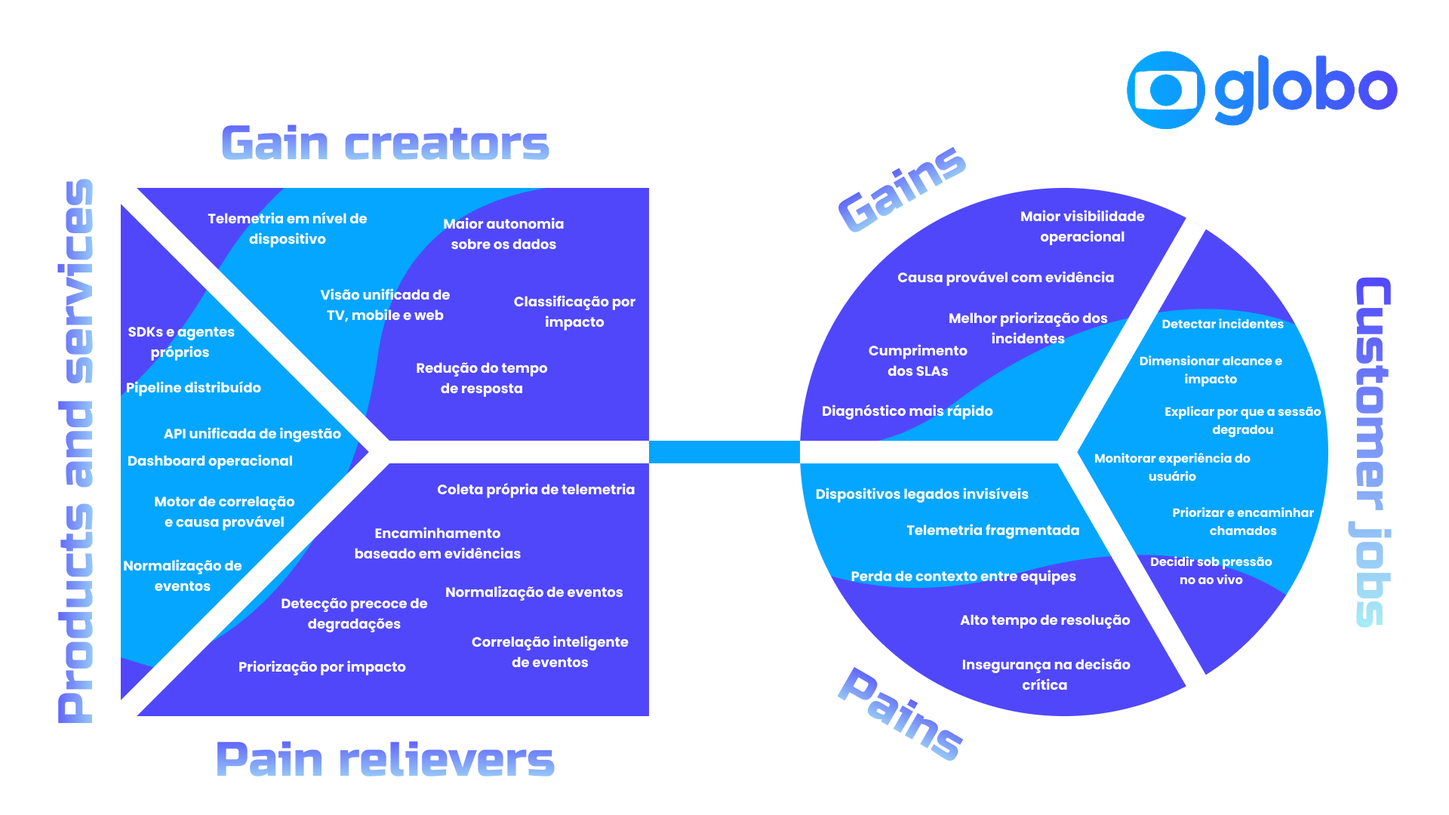
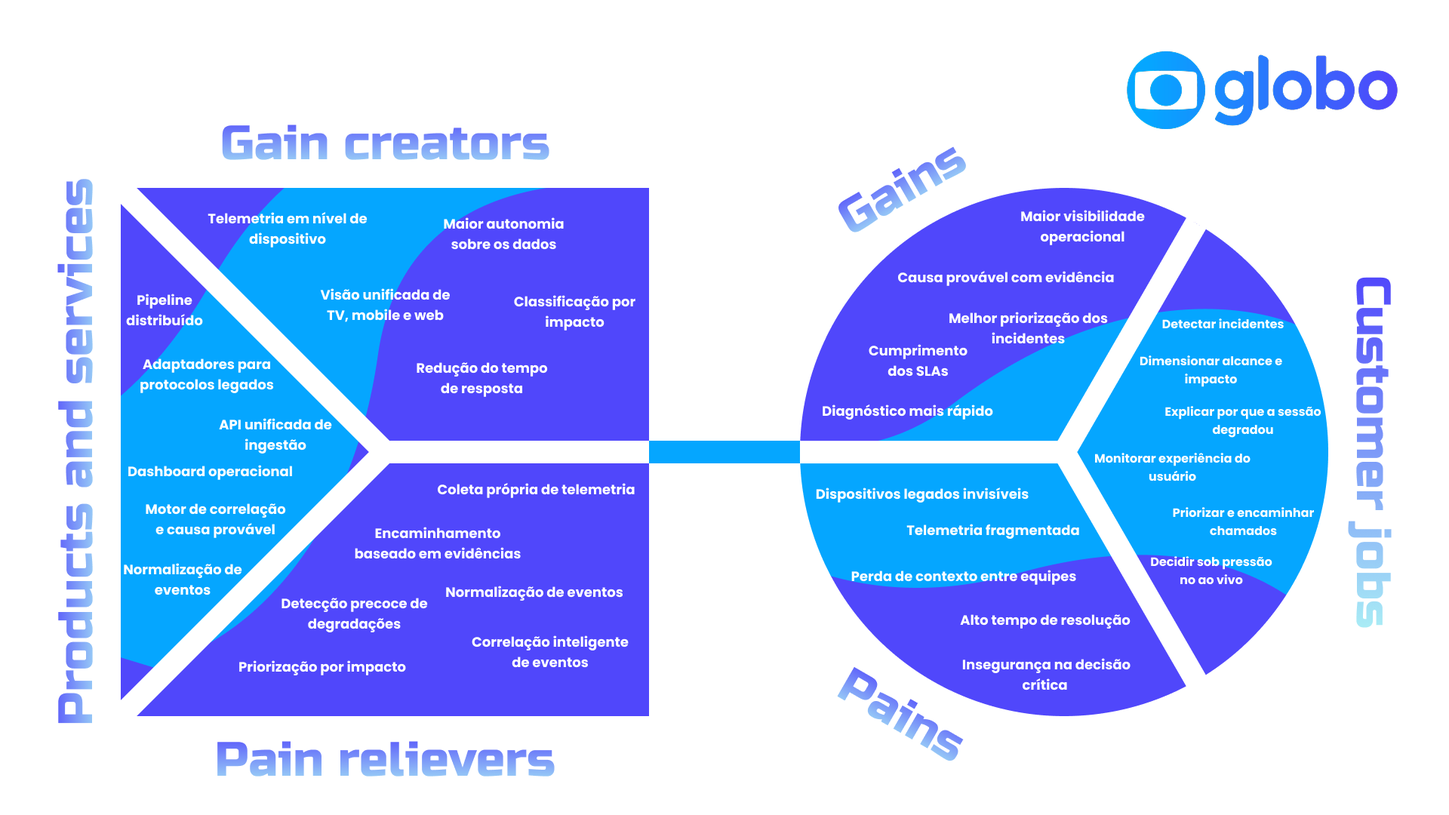
docs: refatoração de revisão com novo contexto

Changed region(s): [[0.0938, 0.5194, 0.25, 0.7333], [0.0938, 0.3667, 0.1875, 0.4889]]

diff --git a/artefatos/entendimento_negocio.md b/artefatos/entendimento_negocio.md
@@ -12,6 +12,8 @@
 
 &emsp; **Solução proposta pelo grupo.** Sistema distribuído proprietário de telemetria, com API única de ingestão que aceita protocolos modernos e legados, normalização dos eventos sob vocabulário comum (`request`, `vitals`, `screen_view`, `video_view`, `session`, `error`), pipeline de alta escala sem perdas e camada agêntica de correlação, que devolve uma linha do tempo única do incidente e uma hipótese de causa provável ranqueada, com o recorte afetado explícito.
 
+&emsp; **Escopo avaliado.** A matriz compara a solução-alvo, e não o recorte entregue no módulo. O MVP implementa o caminho de ingestão, processamento assíncrono, armazenamento e consulta, consumindo eventos já mapeados para o vocabulário comum definido pelo projeto (`signal_point`). Os adaptadores por protocolo de origem e a camada de correlação e inferência estão previstos nas fases seguintes, conforme 4.3. Os atributos 1, 2 e 5 descrevem, portanto, capacidade projetada, e sua verificação depende dessas fases.
+
 &emsp; A matriz avalia as abordagens de solução, e não o Globoplay. Características do produto e da audiência entram como justificativa do valor de cada atributo, não como objeto de avaliação.
 
 ### 1.2. Escala e critérios de atribuição das notas
@@ -31,7 +33,7 @@
 | Atributo de valor para o Grupo Globo                       | Prática atual (silos + triagem humana) | Suíte de observabilidade de mercado | Solução proposta pelo grupo | Justificativa das notas                                                                                                                                                                                                                                                                                                                                                                             |
 | ---------------------------------------------------------- | -------------------------------------: | ----------------------------------: | --------------------------: | --------------------------------------------------------------------------------------------------------------------------------------------------------------------------------------------------------------------------------------------------------------------------------------------------------------------------------------------------------------------------------------------------- |
 | 1. Tempo até a hipótese de causa provável                  |                                      1 |                                   3 |                           5 | Hoje o tempo de resolução é a soma das filas: gasta-se mais para descobrir quem conserta do que para consertar. A suíte comercial encurta o caminho ao reunir sinais em um painel, mas ainda entrega gráficos que alguém precisa interpretar. Só a solução proposta tem como produto final uma hipótese ranqueada, e não um conjunto de séries temporais.                                           |
-| 2. Correlação ponta a ponta em uma linha do tempo única    |                                      1 |                                   3 |                           5 | A experiência do assinante é ponta a ponta, mas a observabilidade não é: nenhum painel atual acompanha a jornada inteira do play. A suíte comercial resolve isso quando todas as fontes são de fato integradas, o que raramente se completa numa cadeia com mais de treze fontes heterogêneas. A solução proposta faz o agrupamento por filtros, que proporciona o olhar de uma linha do tempo única. |
+| 2. Correlação ponta a ponta em uma linha do tempo única    |                                      1 |                                   3 |                           5 | A experiência do assinante é ponta a ponta, mas a observabilidade não é: nenhum painel atual acompanha a jornada inteira do play. A suíte comercial resolve isso quando todas as fontes são de fato integradas, o que raramente se completa numa cadeia com oito fontes heterogêneas. A solução proposta faz o agrupamento por filtros, que proporciona o olhar de uma linha do tempo única. |
 | 3. Detecção de degradação que não gera erro                |                                      2 |                                   3 |                           5 | Buffer alto e tempo de início ruim não produzem taxa de erro, e o painel tradicional não acende. Ferramentas de mercado detectam anomalia, mas sobre métricas agregadas, em que a degradação de um recorte se dilui. A solução proposta parte de eventos de QoE coletados no cliente, em que o sintoma percebido pelo assinante é o próprio dado primário.                                          |
 | 4. Granularidade nos recortes de investigação              |                                      2 |                                   2 |                           5 | Uma falha que atinge meio por cento das sessões pode ser a totalidade das sessões de um modelo de TV numa região. A prática atual dilui isso na média nacional. A suíte comercial é penalizada pelo próprio modelo de cobrança: cada dimensão adicional vira custo e empurra o time de volta ao agregado. Na solução proposta, a granularidade é decidida pela necessidade analítica.               |
 | 5. Cobertura da base real de dispositivos e protocolos     |                                      2 |                                   2 |                           5 | Sete plataformas e centenas de modelos convivem no parque, e parte relevante deles não suporta os padrões modernos de coleta que as plataformas de mercado assumem. Nem a prática atual nem a suíte resolvem isso, porque a limitação está na borda e não no backend. A API única multiprotocolo ataca a causa do ponto cego.                                                                       |
@@ -61,16 +63,16 @@
 
 ### 1.5. Trade-offs explícitos da solução proposta
 
-&emsp; Os principais trade-offs assumidos são:
+&emsp; Os trade-offs abaixo são tratados como riscos de projeto na seção 2, com probabilidade, impacto e plano de ação; aqui interessam apenas como contrapartida da escolha de valor. Os principais são:
 
 - Uma causa provável errada durante um evento ao vivo é pior do que hipótese nenhuma, porque direciona o esforço da equipe para o componente errado no pior momento. A saída precisa vir ranqueada e com evidência auditável, e sua qualidade depende de um histórico de incidentes rotulados que talvez ainda não exista em volume suficiente.
 - A camada de inferência só gera valor sobre eventos confiáveis. Investir na inteligência antes de estabilizar ingestão e olhar para os eventos corretos produziria diagnóstico automático sobre dado incompleto, resultado pior do que a triagem manual de hoje.
-- Ao internalizar a telemetria, o Globoplay passa a depender de um sistema que precisa estar disponível exatamente quando a operação está sob estresse. A indisponibilidade da plataforma de monitoração durante uma transmissão de alta audiência é um modo de falha que não existia enquanto o serviço era terceirizado.
-- Armazenar eventos por dispositivo, versão, UF e operadora em alta escala continua caro, e a política de retenção e amostragem terá de ser decisão explícita de projeto, sob o risco de reproduzir internamente o mesmo incentivo a observar menos.
+- Ao internalizar a telemetria, o Globoplay passa a depender de um sistema que precisa estar disponível exatamente quando a operação está sob estresse. A indisponibilidade da plataforma de monitoração durante uma transmissão de alta audiência é um modo de falha que não existia enquanto o serviço era terceirizado (R11 e R16 da seção 2).
+- Armazenar eventos por dispositivo, versão, UF e operadora em alta escala continua caro, e a política de retenção e amostragem terá de ser decisão explícita de projeto, sob o risco de reproduzir internamente o mesmo incentivo a observar menos (R13 da seção 2).
 
 ### 1.6. Evidências que reforçam a comparação
 
-&emsp; **Contexto do produto.** O Globoplay reúne cerca de 30 milhões de usuários ativos mensais (EXAME, 2026), com picos que chegam a 4,1 milhões de sessões em um único evento ao vivo. O produto é entregue em sete plataformas, sobre centenas de modelos de dispositivo, distribuídos por 27 unidades federativas e dezenas de provedores de acesso. A cadeia de entrega envolve mais de treze fontes de dados, produzidas por áreas diferentes, com formatos e janelas de agregação diferentes, e todas precisam ser lidas em conjunto para explicar um único play que deu errado. É esse espaço de busca que torna a varredura manual inviável em plantão.
+&emsp; **Contexto do produto.** O Globoplay reúne cerca de 30 milhões de usuários ativos mensais (EXAME, 2026), com picos que chegam a 4,1 milhões de sessões em um único evento ao vivo. O produto é entregue em sete plataformas, sobre centenas de modelos de dispositivo, distribuídos por 27 unidades federativas e dezenas de provedores de acesso. A cadeia de entrega envolve ao menos oito fontes de dados, produzidas por áreas diferentes, com formatos e janelas de agregação diferentes, e todas precisam ser lidas em conjunto para explicar um único play que deu errado. É esse espaço de busca que torna a varredura manual inviável em plantão.
 
 &emsp; **Impacto econômico da degradação silenciosa.** O estudo de Krishnan e Sitaraman (2012), conduzido sobre 23 milhões de visualizações na rede da Akamai e apresentado no Internet Measurement Conference, mostrou que o abandono começa quando o vídeo demora mais de cerca de 2 segundos para iniciar, com aumento aproximado de 5,8 pontos percentuais na taxa de abandono a cada segundo adicional. Travamentos equivalentes a 1% da duração reduzem em cerca de 5% o tempo assistido, e quem sofre falha de reprodução tem probabilidade cerca de 2,3% menor de voltar na mesma semana. O resultado sustenta o atributo 3: a degradação que não gera erro é justamente a que destrói engajamento.
 
@@ -220,14 +222,14 @@
 
 | # | Produto ou serviço | Atende a |
 |---|---|---|
-| P1 | SDKs e agentes próprios | J1, J4 |
-| P2 | API unificada de ingestão | J1, J4 |
-| P3 | Normalização de eventos | J3 |
-| P4 | Pipeline distribuído | J1, J2 |
+| P1 | Vocabulário comum de eventos (`signal_point`) | J1, J3 |
+| P2 | API única de ingestão | J1, J4 |
+| P3 | Fila de mensagens e worker de processamento | J1, J2 |
+| P4 | Armazenamento com recorte por dimensão | J2, J3 |
 | P5 | Motor de correlação e causa provável | J3, J5, J6 |
-| P6 | Dashboard operacional | J2, J5 |
+| P6 | Dashboard e API de consulta | J2, J4, J5 |
 
-&emsp; P5 é o componente que diferencia a proposta das alternativas comparadas em 1.3. Sem ele, os demais produtos entregam dados, e não inferência, e a solução se aproxima da suíte de mercado avaliada na matriz. Seu custo de construção precisa estar refletido no investimento estimado em 4.3.
+&emsp; P5 é o componente que diferencia a proposta das alternativas comparadas em 1.3. Sem ele, os demais produtos entregam dados, e não inferência, e a solução se aproxima da suíte de mercado avaliada na matriz. Seu custo de construção está estimado na Fase 5 do investimento inicial, em 4.3.
 
 #### 3.1.3. Encaixe entre dores e aliviadores
 
@@ -253,7 +255,7 @@
 | G4 | Melhor priorização dos incidentes | Média | Classificação por impacto |
 | G5 | Cumprimento dos SLAs | Média | Redução do tempo de resposta |
 
-&emsp; O encaixe demonstrado acima delimita a proposta. A solução é baseada em coleta própria: os eventos são capturados nos dispositivos por SDKs e agentes, enviados à infraestrutura na AWS, normalizados, armazenados, correlacionados e apresentados em dashboard. Dentro do escopo do MVP e conforme o rollout, ela substitui parte das funcionalidades hoje desempenhadas por ferramentas de observabilidade de mercado, e não a totalidade delas. Essa proporção é tratada como premissa B3 na análise financeira, em 4.2. O valor central permanece a ampliação da visibilidade necessária para investigar incidentes, reduzir o tempo perdido entre filas e equipes, apoiar o cumprimento dos SLAs e diminuir o impacto das falhas percebidas pelos assinantes do Globoplay.
+&emsp; O encaixe demonstrado acima delimita a proposta. A solução é baseada em ingestão própria: os eventos das fontes de telemetria, mapeados para o vocabulário comum definido pelo projeto, são recebidos por uma API única na infraestrutura da AWS, processados de forma assíncrona, armazenados, correlacionados e apresentados em dashboard. Dentro do escopo do MVP e conforme o rollout, ela substitui parte das funcionalidades hoje desempenhadas por ferramentas de observabilidade de mercado, e não a totalidade delas. Essa proporção é tratada como premissa B3 na análise financeira, em 4.2. O valor central permanece a ampliação da visibilidade necessária para investigar incidentes, reduzir o tempo perdido entre filas e equipes, apoiar o cumprimento dos SLAs e diminuir o impacto das falhas percebidas pelos assinantes do Globoplay.
 
 ## 4. Análise Financeira do Projeto
 
@@ -273,7 +275,7 @@
 
 #### Contexto financeiro da organização
 
-&emsp; O Globoplay alcançou breakeven e lucro em 2025, pela primeira vez em 10 anos de operação, com cerca de 30 milhões de usuários ativos mensais (EXAME, 2026). O Grupo Globo fechou o ano com receita líquida consolidada de R$ 16,87 bi e lucro líquido de R$ 1,45 bi (TELETIME, 2026; ISTOÉ DINHEIRO, 2026).
+&emsp; O Globoplay alcançou breakeven e lucro em 2025, pela primeira vez em 10 anos de operação, com cerca de 30 milhões de usuários ativos mensais (EXAME, 2026). O Grupo Globo fechou o ano com faturamento bruto de R$ 18,2 bi, receita líquida consolidada de R$ 16,87 bi e lucro líquido de R$ 1,45 bi (ISTOÉ DINHEIRO, 2026; TELETIME, 2026).
 
 &emsp; O dado operacionalmente relevante para esta análise é a escala de usuários (A1), que determina o volume de telemetria e, por consequência, o custo de infraestrutura calculado em 4.4. Os indicadores consolidados do grupo servem apenas para dimensionar a ordem de grandeza do investimento frente à capacidade financeira do parceiro.
 
@@ -292,28 +294,28 @@
 | B1 | Contrato enterprise de observabilidade para operação de porte similar | US$ 800 mil – 2 mi/ano | Baixa | VENDORBENCHMARK (2026). A faixa descreve a trajetória de custo de organizações que não controlaram consumo, não um benchmark de operação comparável — ver limitação 1 |
 | B2 | Câmbio USD/BRL | R$ 5,08 | Média | INVESTING.COM (2026), 3 ago. 2026 |
 | B3 | Escopo da ferramenta de mercado substituível pelo MVP no 1º ano | 30–70% (cenários) | Baixa | Estimativa da equipe |
-| B4 | Taxa de captura (rollout na base de dispositivos) no 1º ano | 20–60% (cenários) | Baixa | Estimativa da equipe |
+| B4 | Taxa de captura (migração das aplicações e fontes para a API) no 1º ano | 20–60% (cenários) | Baixa | Estimativa da equipe |
 
-#### D. Custos de implementação
+#### C. Custos de implementação
 
 | # | Premissa | Valor | Confiança | Fonte |
 |---|---|---|---|---|
-| D1 | Equipe do projeto (custo de mercado) | 5 devs (2 sênior + 3 pleno) | Baixa | Equipe típica de projeto Inteli |
-| D2 | Duração do módulo acadêmico (MVP) | 10 semanas | Alta | Cronograma do módulo |
-| D3 | Salário — Dev Back-End Sênior (SP) | R$ 12.250–20.600/mês | Alta | ROBERT HALF (2026) |
-| D4 | Salário — Dev Full-Stack Pleno (SP) | R$ 9.550–15.900/mês | Alta | ROBERT HALF (2026) |
-| D5 | Nuvem — ambiente de desenvolvimento e teste | ~R$ 3.000/mês | Baixa | Estimativa não detalhada por serviço |
+| C1 | Equipe do projeto (custo de mercado) | 5 devs (2 sênior + 3 pleno) | Baixa | Equipe típica de projeto Inteli |
+| C2 | Duração do módulo acadêmico (MVP) | 10 semanas | Alta | Cronograma do módulo |
+| C3 | Salário — Dev Back-End Sênior (SP) | R$ 12.250–20.600/mês | Alta | ROBERT HALF (2026) |
+| C4 | Salário — Dev Full-Stack Pleno (SP) | R$ 9.550–15.900/mês | Alta | ROBERT HALF (2026) |
+| C5 | Nuvem — ambiente de desenvolvimento e teste | ~R$ 3.000/mês | Baixa | Estimativa não detalhada por serviço |
 
-#### D'. Premissas complementares derivadas pela equipe
+#### C'. Premissas complementares derivadas pela equipe
 
-&emsp; D1 a D5 não cobrem todos os itens de uma implantação em produção. As quatro premissas abaixo foram acrescentadas pelo grupo.
+&emsp; C1 a C5 não cobrem todos os itens de uma implantação em produção. As quatro premissas abaixo foram acrescentadas pelo grupo.
 
 | # | Premissa | Valor | Confiança | Derivação |
 |---|---|---|---|---|
-| D6 | Encargos sobre salário (CLT) | +35% sobre o bruto | Média | Prática de mercado |
-| D7 | Custo mensal carregado — sênior / pleno | R$ 24.000 / R$ 17.500 | Média | Médio-superior de D3 e D4 + D6 |
-| D8 | Prazo até produção estável | 6 meses | Baixa | D2 (10 semanas) + ~3,5 meses de hardening, integração e governança |
-| D9 | Volume de eventos em rollout total | ~3,6 bi eventos/mês | Baixa | A1 (30 mi) × ~8 sessões/mês × ~15 eventos/sessão |
+| C6 | Encargos sobre salário (CLT) | +35% sobre o bruto | Média | Prática de mercado |
+| C7 | Custo mensal carregado — sênior / pleno | R$ 24.000 / R$ 17.500 | Média | Médio-superior de C3 e C4 + C6 |
+| C8 | Prazo até produção estável | 6 meses | Baixa | C2 (10 semanas) + ~3,5 meses de hardening, integração e governança |
+| C9 | Volume de eventos em rollout total | ~3,6 bi eventos/mês | Baixa | A1 (30 mi) × ~8 sessões/mês × ~15 eventos/sessão |
 
 &emsp; **Validação futura.** As premissas de menor confiança tornam-se verificáveis já no primeiro trimestre de operação, a partir de métricas que a própria plataforma coleta: custo por evento, cobertura de dispositivos e volume de eventos processados. Este modelo deve ser recalculado quando esses dados existirem.
 
@@ -321,26 +323,28 @@
 
 ### 4.3. Investimento inicial
 
-&emsp; Estimativa do custo que o Globoplay incorreria para levar a solução a produção, não do custo do projeto acadêmico. A Fase 1 corresponde ao escopo do módulo (D2); as Fases 2 a 4 cobrem o que separa o MVP de um sistema em produção sob carga real.
+&emsp; Estimativa do custo que o Globoplay incorreria para levar a solução a produção, não do custo do projeto acadêmico. A Fase 1 corresponde ao escopo do módulo (C2); as Fases 2 a 5 cobrem o que separa o MVP de um sistema em produção sob carga real.
 
 | Fase | Escopo | Duração | Custo (R$) |
 |---|---|---|---|
 | 1. MVP | API única de ingestão, protocolos legados, pipeline de ingestão e armazenamento, normalização mínima, consultas de falhas críticas, dashboard | 10 semanas (~2,5 meses) | 274.000 |
 | 2. Hardening e escala | Resiliência da ingestão, backpressure, tolerância a perda de eventos, testes de carga em pico, ajuste de retenção | 1,5 mês | 164.000 |
-| 3. Integração e rollout | SDKs e agentes para TV, mobile e web; integração com pipeline de dados e stack de alertas do Globoplay; deploy gradual | 1,5 mês | 217.000 |
-| 4. Segurança, privacidade e governança | Adequação à LGPD, política de retenção e anonimização, controle de acesso, documentação | Paralelo às Fases 2 e 3 (~0,5 FTE) | 60.000 |
-| **Total** | | **~6 meses** | **R$ 715.000** |
+| 3. Integração e rollout | Adaptadores para os protocolos em uso nas aplicações de TV, mobile e web; integração com pipeline de dados e stack de alertas do Globoplay; migração gradual das fontes | 1,5 mês | 217.000 |
+| 4. Segurança, privacidade e governança | Adequação à LGPD (BRASIL, 2018), política de retenção e anonimização, controle de acesso, documentação | Paralelo às Fases 2 e 3 (~0,5 FTE) | 60.000 |
+| 5. Correlação e inferência de causa provável | Motor de correlação entre fontes, linha do tempo única do incidente, ranqueamento de hipóteses com evidência associada e calibração sobre incidentes rotulados | Paralelo às Fases 2 e 3 (1 sênior + 1 pleno) | 83.000 |
+| **Total** | | **~6 meses** | **R$ 798.000** |
 
-**Composição.** Equipe core (D1 + D7) = 2 × R$ 24.000 + 3 × R$ 17.500 = R$ 100.500/mês.
+**Composição.** Equipe core (C1 + C7) = 2 × R$ 24.000 + 3 × R$ 17.500 = R$ 100.500/mês.
 
 | Item | Cálculo | Valor (R$) |
 |---|---|---|
 | Equipe core (Fases 1 a 3) | R$ 100.500 × 5,5 meses | 553.000 |
-| Infraestrutura de desenvolvimento e teste (D5) | R$ 3.000 × 6 | 18.000 |
+| Infraestrutura de desenvolvimento e teste (C5) | R$ 3.000 × 6 | 18.000 |
 | Gestão técnica (~20% de dedicação) | R$ 30.000 × 20% × 6 | 36.000 |
 | Especialistas do Globoplay (integração) | 2 engenheiros × 1 mês | 48.000 |
 | Segurança, privacidade e governança | 0,5 FTE sênior × 4 meses + revisão jurídica | 60.000 |
-| **Total** | | **715.000** |
+| Camada de correlação e inferência (P5 do canvas) | (R$ 24.000 + R$ 17.500) × 2 meses | 83.000 |
+| **Total** | | **798.000** |
 
 ---
 
@@ -352,7 +356,7 @@
 
 | Etapa | Cálculo | Resultado |
 |---|---|---|
-| Volume em rollout total (D9) | 30 mi × 8 sessões × 15 eventos | ~3,6 bi eventos/mês |
+| Volume em rollout total (C9) | 30 mi × 8 sessões × 15 eventos | ~3,6 bi eventos/mês |
 | Volume no cenário base | 3,6 bi × 40% (B4) | ~1,44 bi eventos/mês |
 | Dados brutos | 1,44 bi × ~500 bytes | ~720 GB/mês |
 | Dados armazenados | compressão colunar ~10:1 | ~72 GB/mês |
@@ -362,10 +366,12 @@
 | Item | Anual (R$) | Premissa |
 |---|---|---|
 | Infraestrutura de produção (nuvem) | 300.000 | R$ 25.000/mês; escala com B4 |
-| Sustentação e plantão (dev pleno, 50%) | 105.000 | D7: R$ 17.500 × 50% × 12 |
-| Evolução dos SDKs e agentes (dev sênior, 30%) | 86.000 | D7: R$ 24.000 × 30% × 12 |
-| Suporte a engenharia e produto (~20h/mês) | 27.000 | D7: R$ 17.500 ÷ 160h × 20h × 12 |
+| Sustentação e plantão (dev pleno, 50%) | 105.000 | C7: R$ 17.500 × 50% × 12 |
+| Evolução dos adaptadores e da API de ingestão (dev sênior, 30%) | 86.000 | C7: R$ 24.000 × 30% × 12 |
+| Suporte a engenharia e produto (~20h/mês) | 27.000 | C7: R$ 17.500 ÷ 160h × 20h × 12 |
 | **Total** | **518.000** | R$ 218.000 fixos + R$ 300.000 variáveis |
+
+&emsp; A sustentação da camada de inferência (Fase 5) está contemplada no item de evolução, sem acréscimo de quadro no Ano 1 — simplificação que deve ser revista quando houver histórico de incidentes rotulados suficiente para recalibrar o modelo.
 
 &emsp; A parcela variável (R$ 750.000 × B4) é o item mais sensível do modelo e o único que a equipe controla por decisões de arquitetura: política de retenção, agregação de dados históricos, compressão e particionamento. Nenhum ganho de otimização foi incorporado ao modelo, por falta de premissa quantificável.
 
@@ -381,7 +387,7 @@
 | Ganho potencial | Baseline × B3 | R$ 4.064.000 × 50% = **R$ 2.032.000/ano** |
 | Ganho efetivo (Ano 1) | Ganho potencial × B4 | R$ 2.032.000 × 40% = **R$ 812.800** |
 
-&emsp; B3 mede a fração do escopo funcional que o MVP cobre — a solução própria não replica APM completo, tracing distribuído, integrações prontas e suporte contínuo. B4 mede a rampagem: o contrato só deixa de ser pago na proporção em que a base de dispositivos migra.
+&emsp; B3 mede a fração do escopo funcional que o MVP cobre — a solução própria não replica APM completo, tracing distribuído, integrações prontas e suporte contínuo. B4 mede a rampagem: o contrato só deixa de ser pago na proporção em que as aplicações e fontes migram para a nova ingestão.
 
 &emsp; **Nota metodológica.** (i) O benefício é custo evitado bruto; o custo de operar a plataforma própria é descontado em 4.6. (ii) O rollout parcial reduz simultaneamente benefício e custo de infraestrutura, por isso ambos são recalculados em conjunto na sensibilidade. (iii) No teto de B1 (US$ 2 mi/ano), o baseline e o ganho efetivo são multiplicados por 2,5, enquanto os custos permanecem inalterados; o benefício líquido do Ano 1 passa a R$ 1.514 mil, conforme a tabela da limitação 1 em 4.7.
 
@@ -398,11 +404,11 @@ Benefício Líquido = Ganhos estimados (1 ano) − Custos operacionais anuais
 
 | Componente | Valor | Origem |
 |---|---|---|
-| Investimento inicial | R$ 715.000 | 4.3 |
+| Investimento inicial | R$ 798.000 | 4.3 |
 | Custos operacionais anuais | R$ 518.000 | 4.4 |
 | Ganho efetivo no Ano 1 | R$ 813.000 | 4.5 (B3 = 50%, B4 = 40%) |
 | **Benefício líquido** | **R$ 295.000** | R$ 813.000 − R$ 518.000 |
-| **ROI (Ano 1)** | **~41%** | R$ 295.000 ÷ R$ 715.000 |
+| **ROI (Ano 1)** | **~37%** | R$ 295.000 ÷ R$ 798.000 |
 
 #### Análise de sensibilidade
 
@@ -410,9 +416,9 @@ Benefício Líquido = Ganhos estimados (1 ano) − Custos operacionais anuais
 
 | Cenário | B3 | B4 | Ganho efetivo Y1 | Custos anuais | Benefício líquido | ROI |
 |---|---|---|---|---|---|---|
-| Pessimista | 30% | 20% | R$ 244 mil | R$ 368 mil | −R$ 124 mil | −17% |
-| Base | 50% | 40% | R$ 813 mil | R$ 518 mil | R$ 295 mil | 41% |
-| Otimista | 70% | 60% | R$ 1.707 mil | R$ 668 mil | R$ 1.039 mil | 145% |
+| Pessimista | 30% | 20% | R$ 244 mil | R$ 368 mil | −R$ 124 mil | −16% |
+| Base | 50% | 40% | R$ 813 mil | R$ 518 mil | R$ 295 mil | 37% |
+| Otimista | 70% | 60% | R$ 1.707 mil | R$ 668 mil | R$ 1.039 mil | 130% |
 
 &emsp; No cenário pessimista o resultado é negativo: o custo de operar a plataforma própria supera o contrato evitado. No cenário base o projeto recupera boa parte do investimento já no Ano 1.
 
@@ -425,21 +431,21 @@ Benefício Líquido = Ganhos estimados (1 ano) − Custos operacionais anuais
 | R$ mil | Ano 1 | Ano 2 | Ano 3 | Total |
 |---|---|---|---|---|
 | **Contratar** — contrato integral | 4.064 | 4.064 | 4.064 | **12.192** |
-| Construir — investimento (4.3) | 715 | — | — | 715 |
+| Construir — investimento (4.3) | 798 | — | — | 798 |
 | Construir — operação (4.4) | 518 | 818 | 968 | 2.304 |
 | Construir — contrato residual | 3.251 | 2.438 | 2.032 | 7.721 |
-| **Construir** — total | 4.484 | 3.256 | 3.000 | **10.741** |
-| **Diferença anual** | −420 | +808 | +1.064 | **+1.451** |
+| **Construir** — total | 4.567 | 3.256 | 3.000 | **10.823** |
+| **Diferença anual** | −503 | +808 | +1.064 | **+1.369** |
 
-&emsp; Construir custa R$ 420 mil **a mais** que contratar no Ano 1: paga-se a construção e o contrato ao mesmo tempo. A virada ocorre no Ano 2, com cruzamento acumulado por volta do mês 18. Em 3 anos, a economia é de R$ 1,45 milhão, ou ~12% do TCO.
+&emsp; Construir custa R$ 503 mil **a mais** que contratar no Ano 1: paga-se a construção e o contrato ao mesmo tempo. A virada ocorre no Ano 2, com cruzamento acumulado por volta do mês 20. Em 3 anos, a economia é de R$ 1,37 milhão, ou ~11% do TCO.
 
 &emsp; A mesma comparação sob os cenários de sensibilidade:
 
 | Cenário (B3; trajetória de B4) | TCO contratar | TCO construir | Diferença em 3 anos |
 |---|---|---|---|
-| Pessimista (30%; 20→40→60%) | 12.192 | 12.998 | **−806** (construir é mais caro) |
-| Base (50%; 40→80→100%) | 12.192 | 10.741 | **+1.451** |
-| Otimista (70%; 60→90→100%) | 12.192 | 8.324 | **+3.868** |
+| Pessimista (30%; 20→40→60%) | 12.192 | 13.081 | **−889** (construir é mais caro) |
+| Base (50%; 40→80→100%) | 12.192 | 10.823 | **+1.369** |
+| Otimista (70%; 60→90→100%) | 12.192 | 8.407 | **+3.785** |
 
 &emsp; O intervalo é largo o bastante para inverter a decisão: no cenário pessimista, contratar é a escolha economicamente correta ao longo de todo o horizonte.
 
@@ -449,15 +455,15 @@ Benefício Líquido = Ganhos estimados (1 ano) − Custos operacionais anuais
 
 #### Viabilidade financeira
 
-&emsp; No cenário base, construir é economicamente preferível a contratar, com economia de ~12% do TCO em 3 anos e virada no mês ~18.
+&emsp; No cenário base, construir é economicamente preferível a contratar, com economia de ~11% do TCO em 3 anos e virada no mês ~20.
 
 | Referência | Valor | Proporção |
 |---|---|---|
-| Investimento inicial | R$ 715 mil | ~18% de um ano de contrato de mercado (baseline B1) |
+| Investimento inicial | R$ 798 mil | ~20% de um ano de contrato de mercado (baseline B1) |
 | Operação anual em regime permanente | R$ 968 mil | ~24% do baseline |
 | Custo operacional / ganho bruto (Ano 1) | R$ 518 mil / R$ 813 mil | 64% |
 
-&emsp; O denominador correto é o gasto com observabilidade, e não o resultado do grupo: comparar R$ 715 mil ao lucro consolidado produz um percentual sem significado decisório. A decisão não se sustenta pelo Ano 1, e sim pela trajetória — o benefício cresce com o rollout, enquanto o investimento é pago uma única vez.
+&emsp; O denominador correto é o gasto com observabilidade, e não o resultado do grupo: comparar R$ 798 mil ao lucro consolidado produz um percentual sem significado decisório. A decisão não se sustenta pelo Ano 1, e sim pela trajetória — o benefício cresce com o rollout, enquanto o investimento é pago uma única vez.
 
 #### Justificativa do resultado
 
@@ -478,14 +484,14 @@ R$ 2.032.000 × B4 = R$ 218.000 + R$ 750.000 × B4  →  B4 ≈ 17%
 | Marco | Condição |
 |---|---|
 | Sustentabilidade operacional (benefício = custos anuais) | B4 ≈ 17% |
-| Virada do TCO acumulado (construir passa a ser mais barato) | mês ~18 |
+| Virada do TCO acumulado (construir passa a ser mais barato) | mês ~20 |
 | Recuperação integral do investimento via TCO | Ano 3 |
 
 #### Benefícios operacionais não monetizados
 
 | Benefício | Estimativa | Situação |
 |---|---|---|
-| Redução do tempo de diagnóstico de incidentes | ~3 engenheiros × 6h × 4 incidentes/mês × 35% de redução ≈ 300h/ano ≈ **R$ 45 mil/ano** (custo D7) | Não incluído no ROI |
+| Redução do tempo de diagnóstico de incidentes | ~3 engenheiros × 6h × 4 incidentes/mês × 35% de redução ≈ 300h/ano ≈ **R$ 45 mil/ano** (custo C7) | Não incluído no ROI |
 | Visibilidade sobre dispositivos legados | Não quantificável — churn não diagnosticado em segmentos que hoje nenhuma ferramenta de mercado observa | Não incluído |
 | Operação em eventos de pico (Copa 2026) | Não quantificável — custo reputacional de degradação não detectada | Não incluído |
 
@@ -498,17 +504,17 @@ R$ 2.032.000 × B4 = R$ 218.000 + R$ 750.000 × B4  →  B4 ≈ 17%
 | B1 | US$ 300 mil/ano | US$ 800 mil/ano | US$ 2 mi/ano |
 | Baseline anual | R$ 1.524 mil | R$ 4.064 mil | R$ 10.160 mil |
 | Benefício líquido Ano 1 | −R$ 213 mil | R$ 295 mil | R$ 1.514 mil |
-| Diferença de TCO em 3 anos | −R$ 1.343 mil | +R$ 1.451 mil | +R$ 8.157 mil |
+| Diferença de TCO em 3 anos | −R$ 1.426 mil | +R$ 1.369 mil | +R$ 8.074 mil |
 
 &emsp; Com B1 em US$ 300 mil/ano, construir é mais caro que contratar em todos os três anos. Este é o primeiro dado a solicitar ao parceiro; enquanto não houver o valor real do contrato do Globoplay, a conclusão de viabilidade permanece condicional.
 
-**2. B3 e B4 não foram validados.** Sem plano de rollout acordado nem inventário de escopo funcional. A amplitude entre cenários vai de −R$ 806 mil a +R$ 3.868 mil de diferença de TCO — larga o bastante para inverter a decisão.
+**2. B3 e B4 não foram validados.** Sem plano de rollout acordado nem inventário de escopo funcional. A amplitude entre cenários vai de −R$ 889 mil a +R$ 3.785 mil de diferença de TCO — larga o bastante para inverter a decisão.
 
-**3. Custo de infraestrutura é derivado, não cotado.** Um erro de fator 2 em D9 altera o custo operacional em ~R$ 300 mil/ano, suficiente para inverter o sinal do benefício. A métrica de custo por evento corrige essa premissa no primeiro trimestre de operação.
+**3. Custo de infraestrutura é derivado, não cotado.** Um erro de fator 2 em C9 altera o custo operacional em ~R$ 300 mil/ano, suficiente para inverter o sinal do benefício. A métrica de custo por evento corrige essa premissa no primeiro trimestre de operação.
 
 **4. Contrato residual tratado como proporcional.** O modelo assume que o contrato de mercado é reduzido na exata proporção do escopo substituído. Compromissos anuais de volume mínimo e ciclos de renovação podem atrasar essa redução em um ano inteiro, empurrando a virada do TCO para o Ano 3.
 
-**5. Custos de time do parceiro possivelmente subestimados.** Assume-se ~2 engenheiros por 1 mês para integração. Se cada plataforma exigir SDK mantido por time separado, integração e manutenção anual crescem de forma relevante.
+**5. Custos de time do parceiro possivelmente subestimados.** Assume-se ~2 engenheiros por 1 mês para integração. Se cada aplicação exigir alterações conduzidas por um time distinto para passar a emitir na API, o esforço de integração e a manutenção anual crescem de forma relevante.
 
 **6. Nenhum ganho de receita foi modelado — e este é o benefício principal do projeto.** A solução existe para detectar falhas de frontend, não para reduzir licença de software. Se 0,1% da base de assinantes for retida por melhor qualidade de experiência, o efeito superaria todo o custo evitado aqui modelado. Na ausência de dados de churn do parceiro, o benefício central do projeto permanece fora da conta, e o resultado apresentado deve ser lido como piso, não como estimativa central.
 
@@ -862,39 +868,27 @@ R$ 2.032.000 × B4 = R$ 218.000 + R$ 750.000 × B4  →  B4 ≈ 17%
 
 ## 6. Referências bibliográficas
 
-KRISHNAN, S. Shunmuga; SITARAMAN, Ramesh K. _Video Stream Quality Impacts Viewer Behavior: Inferring Causality Using Quasi-Experimental Designs_. In: ACM Internet Measurement Conference (IMC), 2012. Disponível em: https://people.cs.umass.edu/~ramesh/Site/HOME_files/imc208-krishnan.pdf. Acesso em: ago. 2026.
-
-ANDROID DEVELOPERS. _ANRs | App quality_. Disponível em: https://developer.android.com/topic/performance/vitals/anr. Acesso em: ago. 2026.
-
-GOOGLE PLAY CONSOLE HELP. _Monitor your app's technical quality with Android vitals_. Disponível em: https://support.google.com/googleplay/android-developer/answer/9844486. Acesso em: ago. 2026.
-
-GRAFANA LABS. _Observability Survey Report 2025_. Disponível em: https://grafana.com/observability-survey/2025/. Acesso em: ago. 2026.
+AMAZON WEB SERVICES. Pricing de serviços de computação e armazenamento. Seattle: AWS, 2026. Disponível em: https://aws.amazon.com/pricing/. Acesso em: 4 ago. 2026.
 
 BRASIL. _Lei nº 13.709, de 14 de agosto de 2018_ (Lei Geral de Proteção de Dados Pessoais).
 
-ORGANIZAÇÃO DAS NAÇÕES UNIDAS. Transformando nosso mundo: a Agenda 2030 para o Desenvolvimento Sustentável. Nova York: ONU, 2015. Disponível em: https://sdgs.un.org/2030agenda. Acesso em: 4 ago. 2026.
-
-ORGANIZAÇÃO DAS NAÇÕES UNIDAS. Objetivos de Desenvolvimento Sustentável no Brasil. Brasília, DF: Nações Unidas Brasil, [s. d.]. Disponível em: https://brasil.un.org/pt-br/sdgs. Acesso em: 4 ago. 2026.
-
-ORGANIZAÇÃO DAS NAÇÕES UNIDAS. Objetivo de Desenvolvimento Sustentável 9: indústria, inovação e infraestrutura. Brasília, DF: Nações Unidas Brasil, [s. d.]a. Disponível em: https://brasil.un.org/pt-br/sdgs/9. Acesso em: 4 ago. 2026.
-
-ORGANIZAÇÃO DAS NAÇÕES UNIDAS. Objetivo de Desenvolvimento Sustentável 10: redução das desigualdades. Brasília, DF: Nações Unidas Brasil, [s. d.]b. Disponível em: https://brasil.un.org/pt-br/sdgs/10. Acesso em: 4 ago. 2026.
-
-ORGANIZAÇÃO DAS NAÇÕES UNIDAS. Objetivo de Desenvolvimento Sustentável 12: consumo e produção responsáveis. Brasília, DF: Nações Unidas Brasil, [s. d.]c. Disponível em: https://brasil.un.org/pt-br/sdgs/12. Acesso em: 4 ago. 2026.
-
-AMAZON WEB SERVICES. Pricing de serviços de computação e armazenamento. Seattle: AWS, 2026. Disponível em: https://aws.amazon.com/pricing/. Acesso em: 4 ago. 2026.
-
-BEM PARANÁ. Globoplay acelera em 2026, supera falhas e se impõe na guerra do streaming. Curitiba, 1 maio 2026. Coluna TV Canal 1, por Ayrton Tartuce. Disponível em: https://www.bemparana.com.br/publicacao/colunas/tv-canal-1/globoplay-acelera-em-2026-supera-falhas-e-se-impoe-na-guerra-do-streaming/. Acesso em: 4 ago. 2026.
-
 EXAME. Após 1º lucro em 10 anos de vida, Globoplay se prepara para virar o jogo na guerra do streaming. São Paulo, 25 fev. 2026. Por Mateus Omena. Disponível em: https://exame.com/pop/apos-1o-lucro-em-10-anos-de-vida-globoplay-se-prepara-para-virar-o-jogo-na-guerra-do-streaming/. Acesso em: 4 ago. 2026.
 
-GRAFANA LABS. Observability Survey 2025. [S. l.]: Grafana Labs, 2025. *(URL a confirmar pelo grupo.)*
+GRAFANA LABS. _Observability Survey Report 2025_. Disponível em: https://grafana.com/observability-survey/2025/. Acesso em: ago. 2026.
 
 INVESTING.COM. Cotação USD/BRL. 2026. Disponível em: https://br.investing.com/currencies/usd-brl. Acesso em: 3 ago. 2026.
 
 ISTOÉ DINHEIRO. Globo fatura R$ 18,2 bilhões em 2025, mas lucro cai; veja números do balanço. São Paulo, 25 mar. 2026. Disponível em: https://istoedinheiro.com.br/globo-fatura-r-182-bilhoes-em-2025-mas-lucro-cai-veja-numeros-do-balanco. Acesso em: 4 ago. 2026.
 
 KRISHNAN, S. Shunmuga; SITARAMAN, Ramesh K. Video stream quality impacts viewer behavior: inferring causality using quasi-experimental designs. In: ACM INTERNET MEASUREMENT CONFERENCE, 2012, Boston. Proceedings [...]. New York: ACM, 2012. p. 211-224.
+
+ORGANIZAÇÃO DAS NAÇÕES UNIDAS. Transformando nosso mundo: a Agenda 2030 para o Desenvolvimento Sustentável. Nova York: ONU, 2015. Disponível em: https://sdgs.un.org/2030agenda. Acesso em: 4 ago. 2026.
+
+ORGANIZAÇÃO DAS NAÇÕES UNIDAS. Objetivo de Desenvolvimento Sustentável 9: indústria, inovação e infraestrutura. Brasília, DF: Nações Unidas Brasil, [s. d.]a. Disponível em: https://brasil.un.org/pt-br/sdgs/9. Acesso em: 4 ago. 2026.
+
+ORGANIZAÇÃO DAS NAÇÕES UNIDAS. Objetivo de Desenvolvimento Sustentável 10: redução das desigualdades. Brasília, DF: Nações Unidas Brasil, [s. d.]b. Disponível em: https://brasil.un.org/pt-br/sdgs/10. Acesso em: 4 ago. 2026.
+
+ORGANIZAÇÃO DAS NAÇÕES UNIDAS. Objetivo de Desenvolvimento Sustentável 12: consumo e produção responsáveis. Brasília, DF: Nações Unidas Brasil, [s. d.]c. Disponível em: https://brasil.un.org/pt-br/sdgs/12. Acesso em: 4 ago. 2026.
 
 ROBERT HALF. Guia Salarial 2026. São Paulo: Robert Half, 2026. Disponível em: https://www.roberthalf.com.br/guia-salarial. Acesso em: 4 ago. 2026.
 
